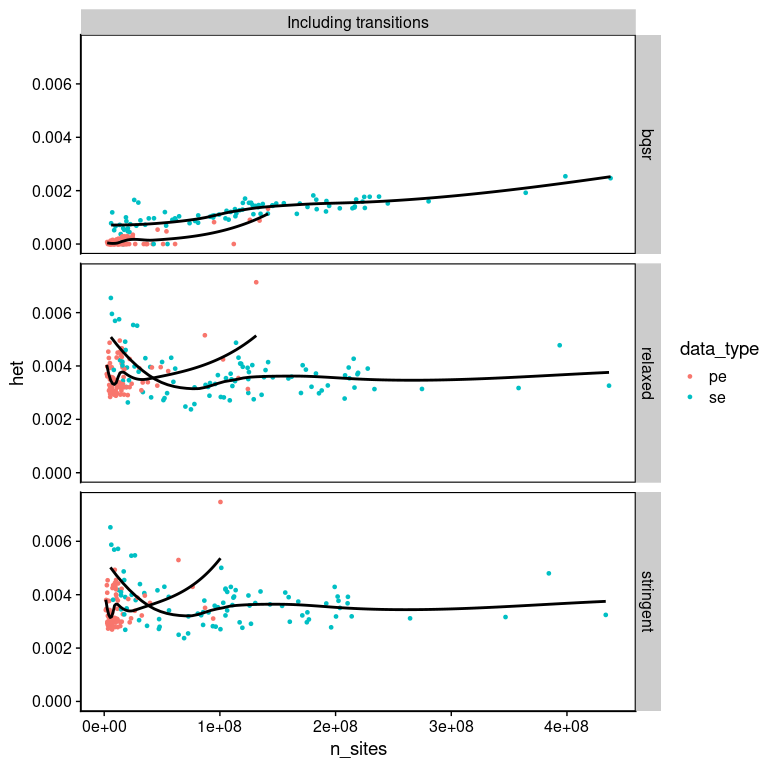
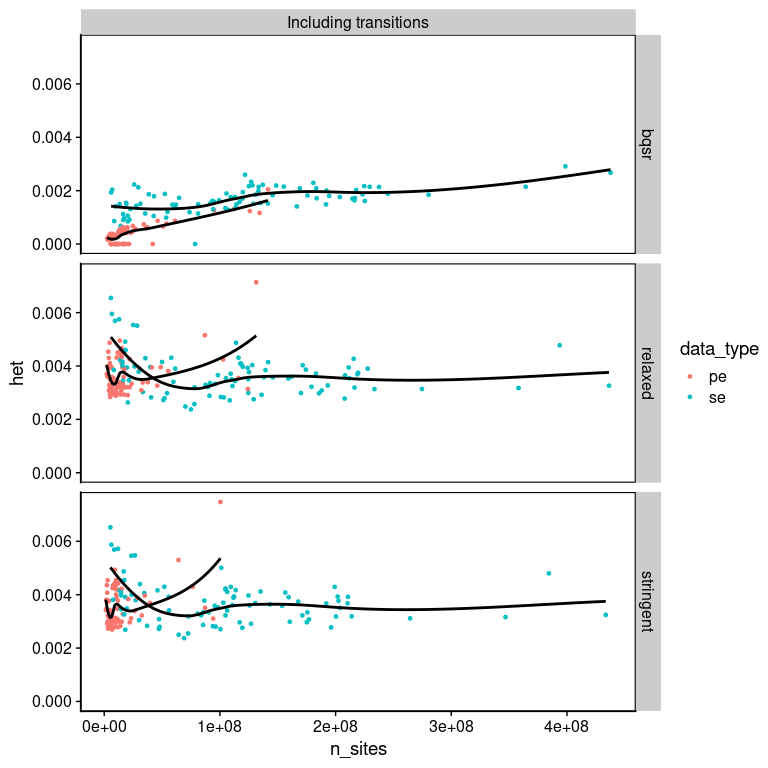
tried GATK BQSR one more time

Changed region(s): [[0.125, 0.2188, 0.8125, 0.3438]]

diff --git a/markdown/bqsr.md b/markdown/bqsr.md
@@ -19,6 +19,18 @@ Base quality score recalibration
 
 ``` r
 library(tidyverse)
+```
+
+    ## Warning: replacing previous import 'lifecycle::last_warnings' by
+    ## 'rlang::last_warnings' when loading 'pillar'
+
+    ## Warning: replacing previous import 'lifecycle::last_warnings' by
+    ## 'rlang::last_warnings' when loading 'tibble'
+
+    ## Warning: replacing previous import 'lifecycle::last_warnings' by
+    ## 'rlang::last_warnings' when loading 'hms'
+
+``` r
 library(cowplot)
 ```
 
@@ -27,9 +39,9 @@ library(cowplot)
 ``` bash
 nohup /workdir/programs/angsd0.931/angsd/angsd \
 -b /workdir/cod/greenland-cod/sample_lists/bam_list_realigned_mincov_filtered.txt \
--anc /workdir/cod/reference_seqs/gadMor3.fasta \
+-ref /workdir/cod/reference_seqs/gadMor3.fasta \
 -out /workdir/batch-effect/angsd/global_snp_list_bqsr \
--GL 1 -doMaf 1 -doMajorMinor 1 -P 8 -SNP_pval 1e-6 -minQ 20 -minMapQ 20 \
+-GL 1 -doMaf 1 -doMajorMinor 4 -P 8 -SNP_pval 1e-6 -minQ 20 -minMapQ 20 \
 > /workdir/batch-effect/nohups/global_snp_list_bqsr.nohup &
 ```
 
@@ -365,7 +377,7 @@ Save the following script as
 BAMLIST=/workdir/batch-effect/sample_lists/bam_list_realigned.txt
 OUTDIR=/workdir/batch-effect/angsd/heterozygosity/
 JOB_INDEX=0
-JOBS=10
+JOBS=30
 MINDP=2
 MAXDP=10
 MINQ=0
